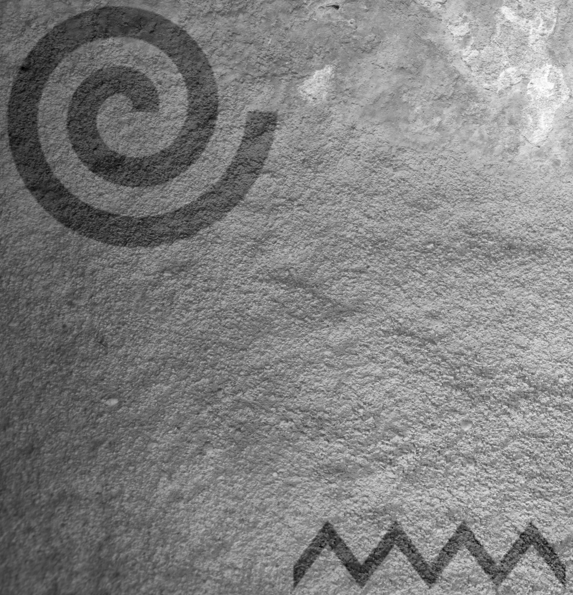
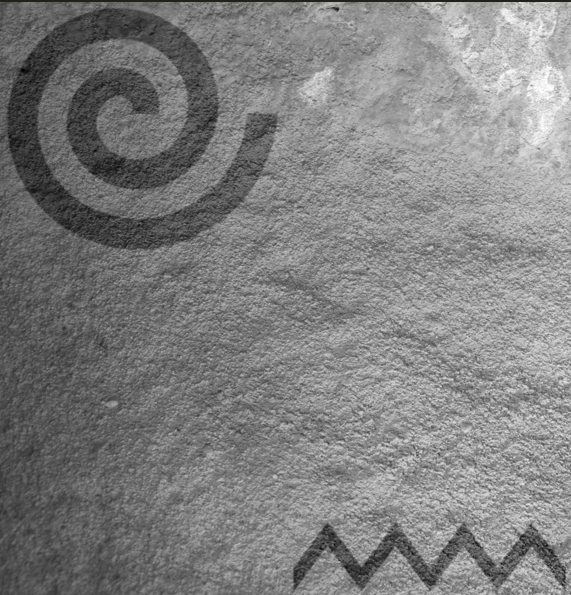
testing new images

Changed region(s): [[0.0, 0.0, 1.0, 1.0], [0.655, 0.1513, 0.6848, 0.1815], [0.2382, 0.9983, 0.268, 1.0]]

diff --git a/utils/image_reconstructor.py b/utils/image_reconstructor.py
@@ -48,68 +48,6 @@ except ImportError as e:
     print("Adaptive image reconstruction will be skipped.")
     _poly_approx_available = False
 
-    # Define dummy functions if imports fail (keep these for robustness in case of import issues)
-    def image_poly_approximation_segment(image_segment, rectangle, poly_degree, nodes_method, admissible_mesh_type, m_cheb, poly_basis):
-        print("Dummy image_poly_approximation_segment called.")
-        height, width = image_segment.shape
-        num_coeffs = int((poly_degree + 1) * (poly_degree + 2) / 2)
-        dummy_coeffs = np.zeros(num_coeffs)
-        dummy_error_map = np.zeros_like(image_segment)
-        return {
-            'original_segment': np.zeros_like(image_segment),
-            'smoothed_segment': np.zeros_like(image_segment),
-            'approx_original': np.zeros_like(image_segment),
-            'approx_smoothed': np.zeros_like(image_segment),
-            'error_original': dummy_error_map,
-            'error_smoothed': dummy_error_map,
-            'diff_original_poly_smoothed': dummy_error_map,
-            'diff_smoothed_poly_original': dummy_error_map,
-            'computation_time': 0.0,
-            'nodes_method': nodes_method,
-            'poly_degree': poly_degree,
-            'coefficients_original': dummy_coeffs,
-            'coefficients_smoothed': dummy_coeffs
-        }
-
-    def save_images(image_dict, save_folder):
-        print("Dummy save_images called.")
-        for filename in image_dict.keys():
-            print(f"  Dummy saving: {filename} to {save_folder}")
-
-    def calculate_error_measure(error_map, measure_type='mse'):
-        print(f"Dummy calculate_error_measure called with measure: {measure_type}")
-        return 1.0 # Return > threshold to force subdivision in dummy mode
-
-    def normalize_error_image_metrics(error_map, epsilon=1e-8): # Renamed dummy as well
-         print("Dummy normalize_error_image_metrics called.")
-         if error_map.size == 0:
-             return np.zeros_like(error_map, dtype=np.float32)
-         min_val = np.min(error_map)
-         max_val = np.max(error_map)
-         if max_val - min_val < epsilon:
-             return np.zeros_like(error_map, dtype=np.float32)
-         return ((error_map - min_val) / (max_val - min_val + epsilon)).astype(np.float32)
-
-    def dummy_basis_func_generator(point):
-         dummy_poly_degree = 5
-         num_coeffs = int((dummy_poly_degree + 1) * (dummy_poly_degree + 2) / 2)
-         return np.ones(num_coeffs)
-
-    def gen_vanderm2d(X, col=None, poly_basis=1, rectangle=None):
-         print("Dummy gen_vanderm2d called.")
-         num_points = len(X) if X is not None else 1
-         num_coeffs = col if col is not None else int((5 + 1) * (5 + 2) / 2)
-         dummy_V = np.zeros((num_points, num_coeffs))
-         return dummy_V, dummy_basis_func_generator
-
-    def evaluate_polynomial_from_coeffs(coeffs, basis_func_generator, eval_points):
-        print("Dummy evaluate_polynomial_from_coeffs called.")
-        eval_points = np.atleast_2d(eval_points)
-        return np.zeros(eval_points.shape[0])
-
-    def graded_lexicographic_multi_indices(total_terms):
-        print("Dummy graded_lexicographic_multi_indices called.")
-        return [(0,0)] * total_terms
 
 # --- Helper function for multiprocessing pool initialization ---
 def _worker_init():

diff --git a/utils/edge_detector.py b/utils/edge_detector.py
@@ -217,6 +217,19 @@ class EdgeDetector:
             print(f"Error saving Chosen Error Map for Edge Detection plot: {e}")
         plt.close(fig_chosen_err)
 
+    def save_binary_map(self, binary_map: np.ndarray, file_path: Path):
+        """
+        Saves a pure binary NumPy array as a black and white PNG image.
+        """
+        # Ensure the array contains only 0s and 1s
+        if not np.all(np.logical_or(binary_map == 0, binary_map == 1)):
+            raise ValueError("Input array for binary map must only contain 0 and 1.")
+
+        # Convert the 0s and 1s to 255s and 0s for a standard black and white image
+        image_data = binary_map * 255
+        img = Image.fromarray(image_data.astype(np.uint8), 'L')
+        img.save(file_path)
+        
     def plot_final_binary_edge_map(self, params_suffix: str, threshold: float):
         """Saves the final adaptive binary edge map plot for LaTeX subfigure."""
         if self.final_adaptive_binary_edge_map is None or self.final_adaptive_binary_edge_map.size == 0:
@@ -230,8 +243,14 @@ class EdgeDetector:
         
         # This is the preferred name
         plot_filename_final_edge = f"{self.image_name}_final_binary_edge_map_{params_suffix}.{self.config.MATPLOTLIB_PARAMS['savefig.format']}"
+        binary_image_filename = f"{self.image_name}_final_binary_edge_pure_map_{params_suffix}.png"
         plot_filepath_final_edge = os.path.join(str(self.image_results_dir), plot_filename_final_edge)
+        binary_image_filepath = self.image_results_dir / binary_image_filename
         try:
+            # First save the pure binary image as PNG
+            self.save_binary_map(self.final_adaptive_binary_edge_map, binary_image_filepath)
+            print(f"Saved Final Adaptive Binary Edge Map image to {binary_image_filepath}")
+            # Then save the Matplotlib plot
             plt.savefig(plot_filepath_final_edge, dpi=self.config.PLOT_DPI, format=self.config.MATPLOTLIB_PARAMS['savefig.format'])
             print(f"Saved Final Adaptive Binary Edge Map plot to {plot_filepath_final_edge}")
         except Exception as e:

diff --git a/config/config_detector.py b/config/config_detector.py
@@ -30,9 +30,9 @@ ERROR_COMBINATION_STRATEGY: str = 'weighted_sum'
 # Only used if ERROR_COMBINATION_STRATEGY is 'weighted_sum'
 ERROR_COMBINATION_WEIGHTS: Dict[str, float] = {
     'error_original': 0.05,
-    'error_smoothed': 0.15,
-    'diff_original_poly_smoothed': 0.7,
-    'diff_smoothed_poly_original': 0.1,
+    'error_smoothed': 0.8,
+    'diff_original_poly_smoothed': 0.1,
+    'diff_smoothed_poly_original': 0.05,
 }
 # Note: Weights will be normalized to sum to 1.0 if they don't.
 
@@ -95,7 +95,7 @@ MATPLOTLIB_PARAMS: Dict[str, Union[str, int, float, bool, List[str]]] = {
     # Figure and subplot settings
     "figure.autolayout": True, # Automatically adjust subplot params for tight layout
     "savefig.dpi": 600, # DPI for raster images (PNG) - high quality for print
-    "savefig.format": "pdf", # Default format for saving figures (vector graphics recommended)
+    "savefig.format": "eps", # Use eps or pdf as default format for saving figures (vector graphics recommended)
     "figure.figsize": (8, 6), # Default figure size (width, height) in inches for single plots
 
     # Grid settings

diff --git a/utils/computational_performance_analyzer.py b/utils/computational_performance_analyzer.py
@@ -235,9 +235,9 @@ if __name__ == "__main__":
     # Define the list of images to use for benchmarking
     # Ensure these images exist in your config_reconstructor.IMAGE_DIR
     benchmark_images = [
-        "Shepp_Logan_phantom",
-        "spiral",
-        "spiral_and_zigzag"
+         "Shepp_Logan_phantom",
+        # "spiral",
+        # "spiral_and_zigzag"
     ]
 
     analyzer = ComputationalPerformanceAnalyzer(config_reconstructor, benchmark_image_names=benchmark_images) 

diff --git a/run_experiments.py b/run_experiments.py
@@ -63,6 +63,8 @@ def run_all_experiments():
         {"name": "Shepp_Logan_phantom", "fixed_threshold": 0.04},
         {"name": "spiral", "fixed_threshold": 0.05},
         {"name": "spiral_and_zigzag", "fixed_threshold": 0.15},
+        {"name": "spiral_zigzag", "fixed_threshold": 0.12},
+        {"name": "binary_image_spi_zig2", "fixed_threshold": 0.12},
     ]
 
     # Define edge detection strategies to test (besides the main one in config_detector)
